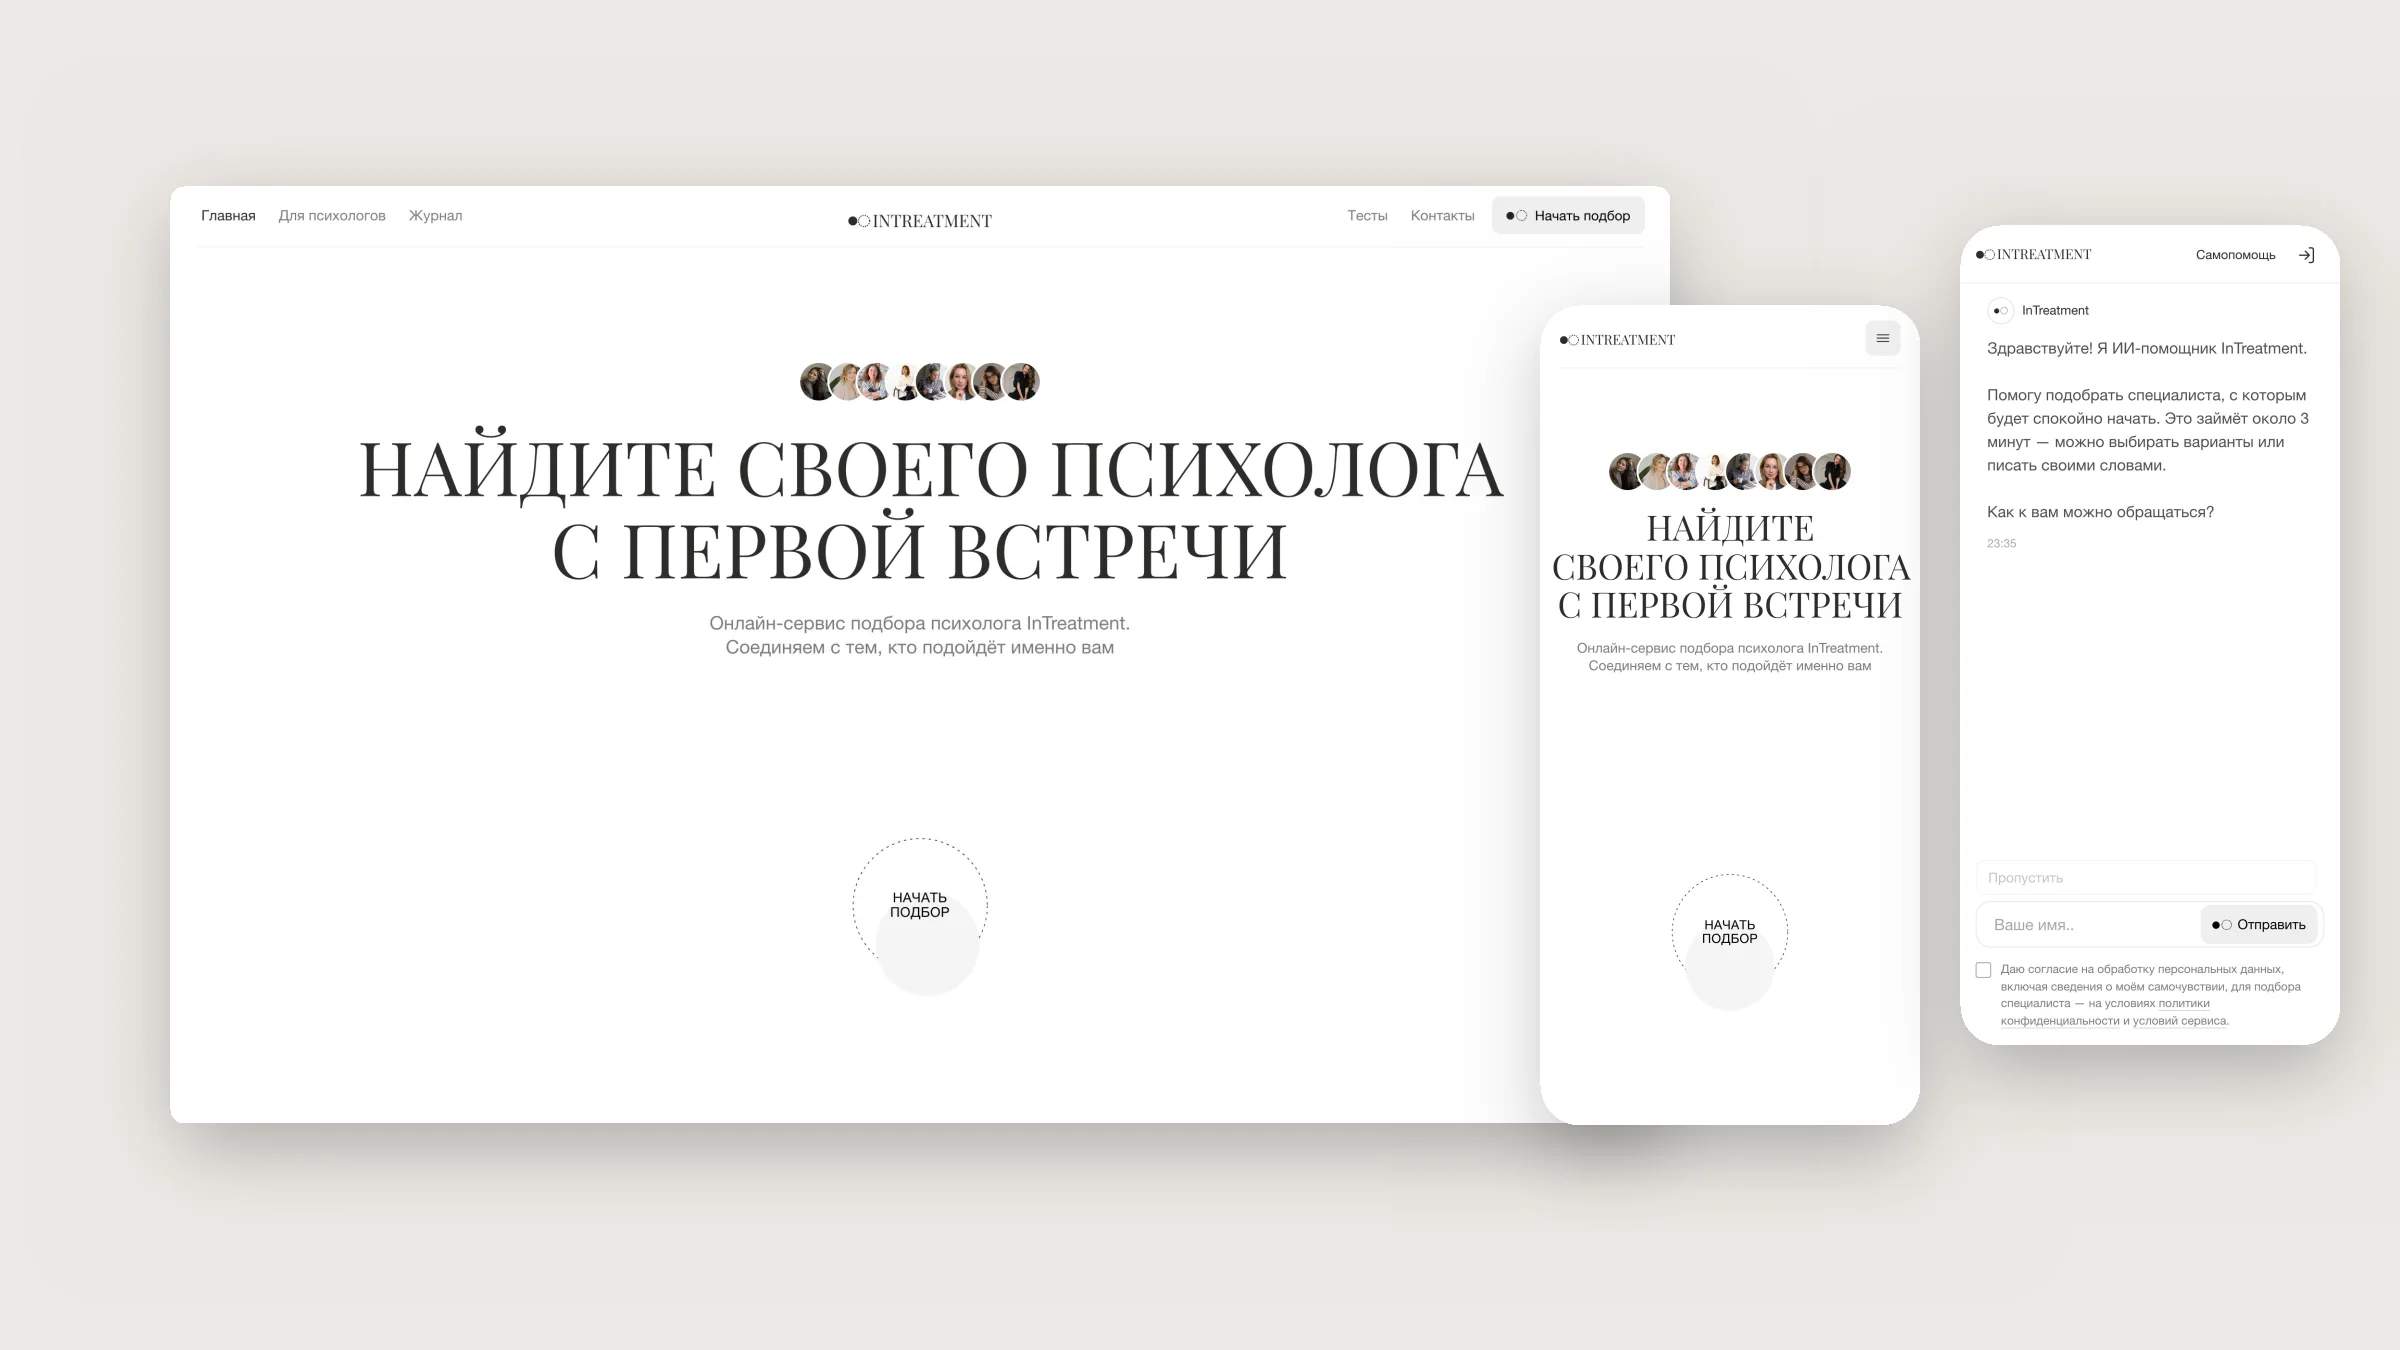
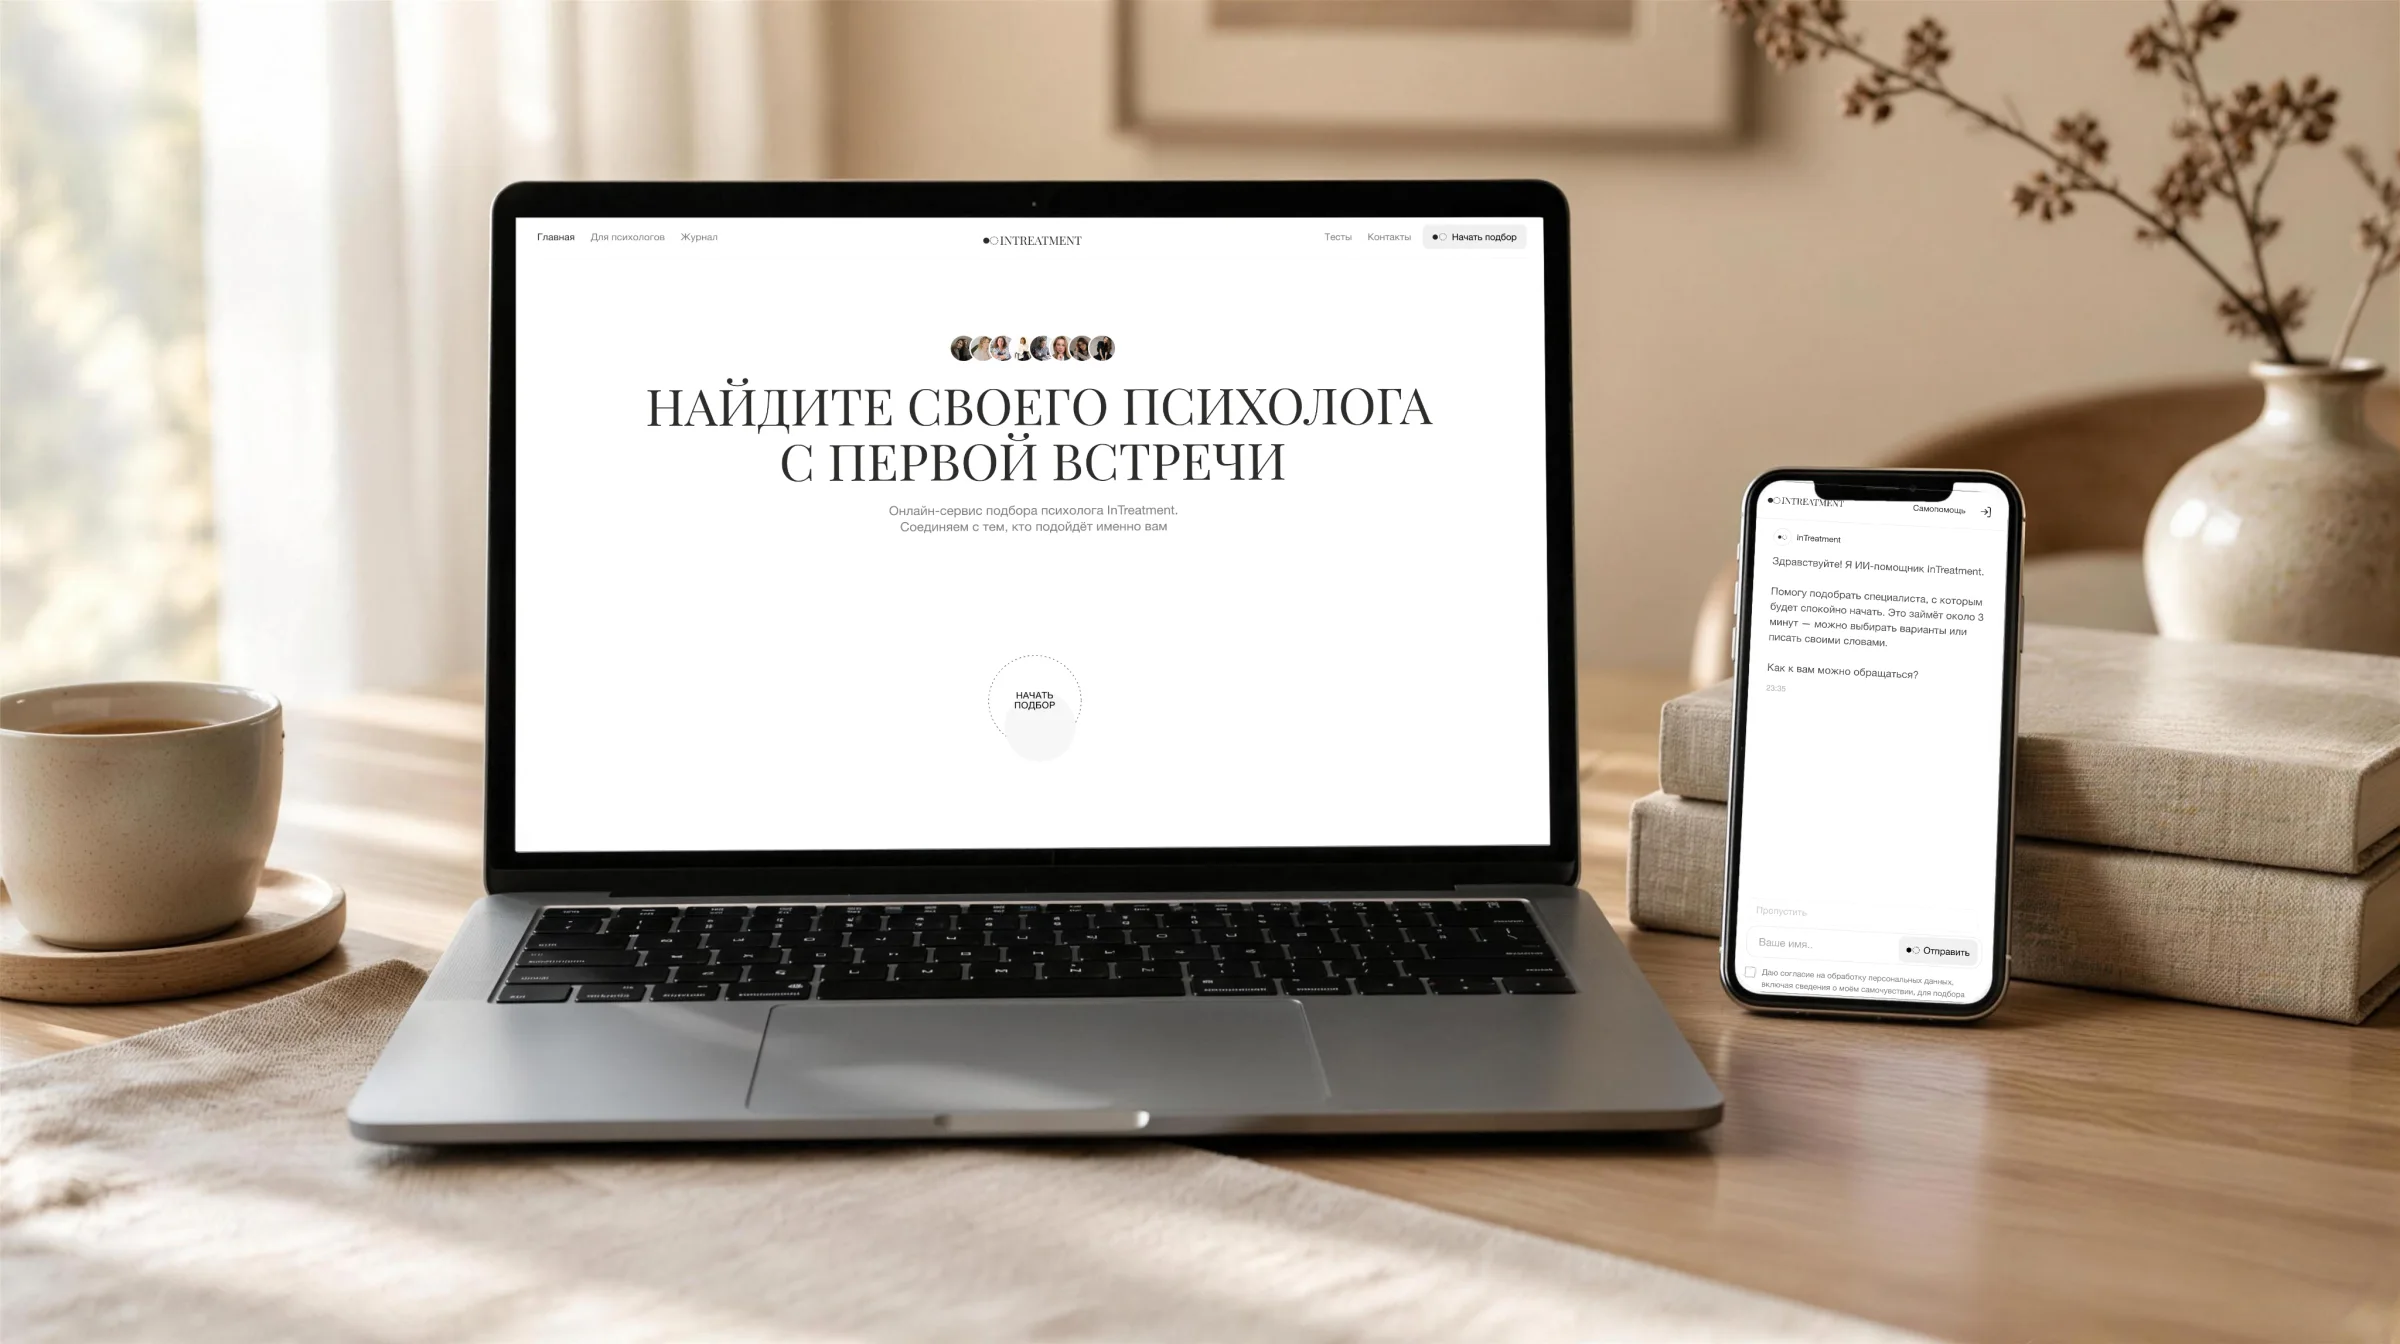
InTreatment: реалистичная фото-обложка с настоящими экранами

diff --git a/intreatment.html b/intreatment.html
@@ -41,7 +41,7 @@
 
   <figure class="hero-media reveal">
     <img src="img/it/cover.webp" alt="Сайт и чат-подбор InTreatment на десктопе и телефоне">
-    <figcaption>Главная и чат-подбор: десктоп и телефон</figcaption>
+    <figcaption>Главная на ноутбуке и чат-подбор на телефоне</figcaption>
   </figure>
 
   <section class="nums">
